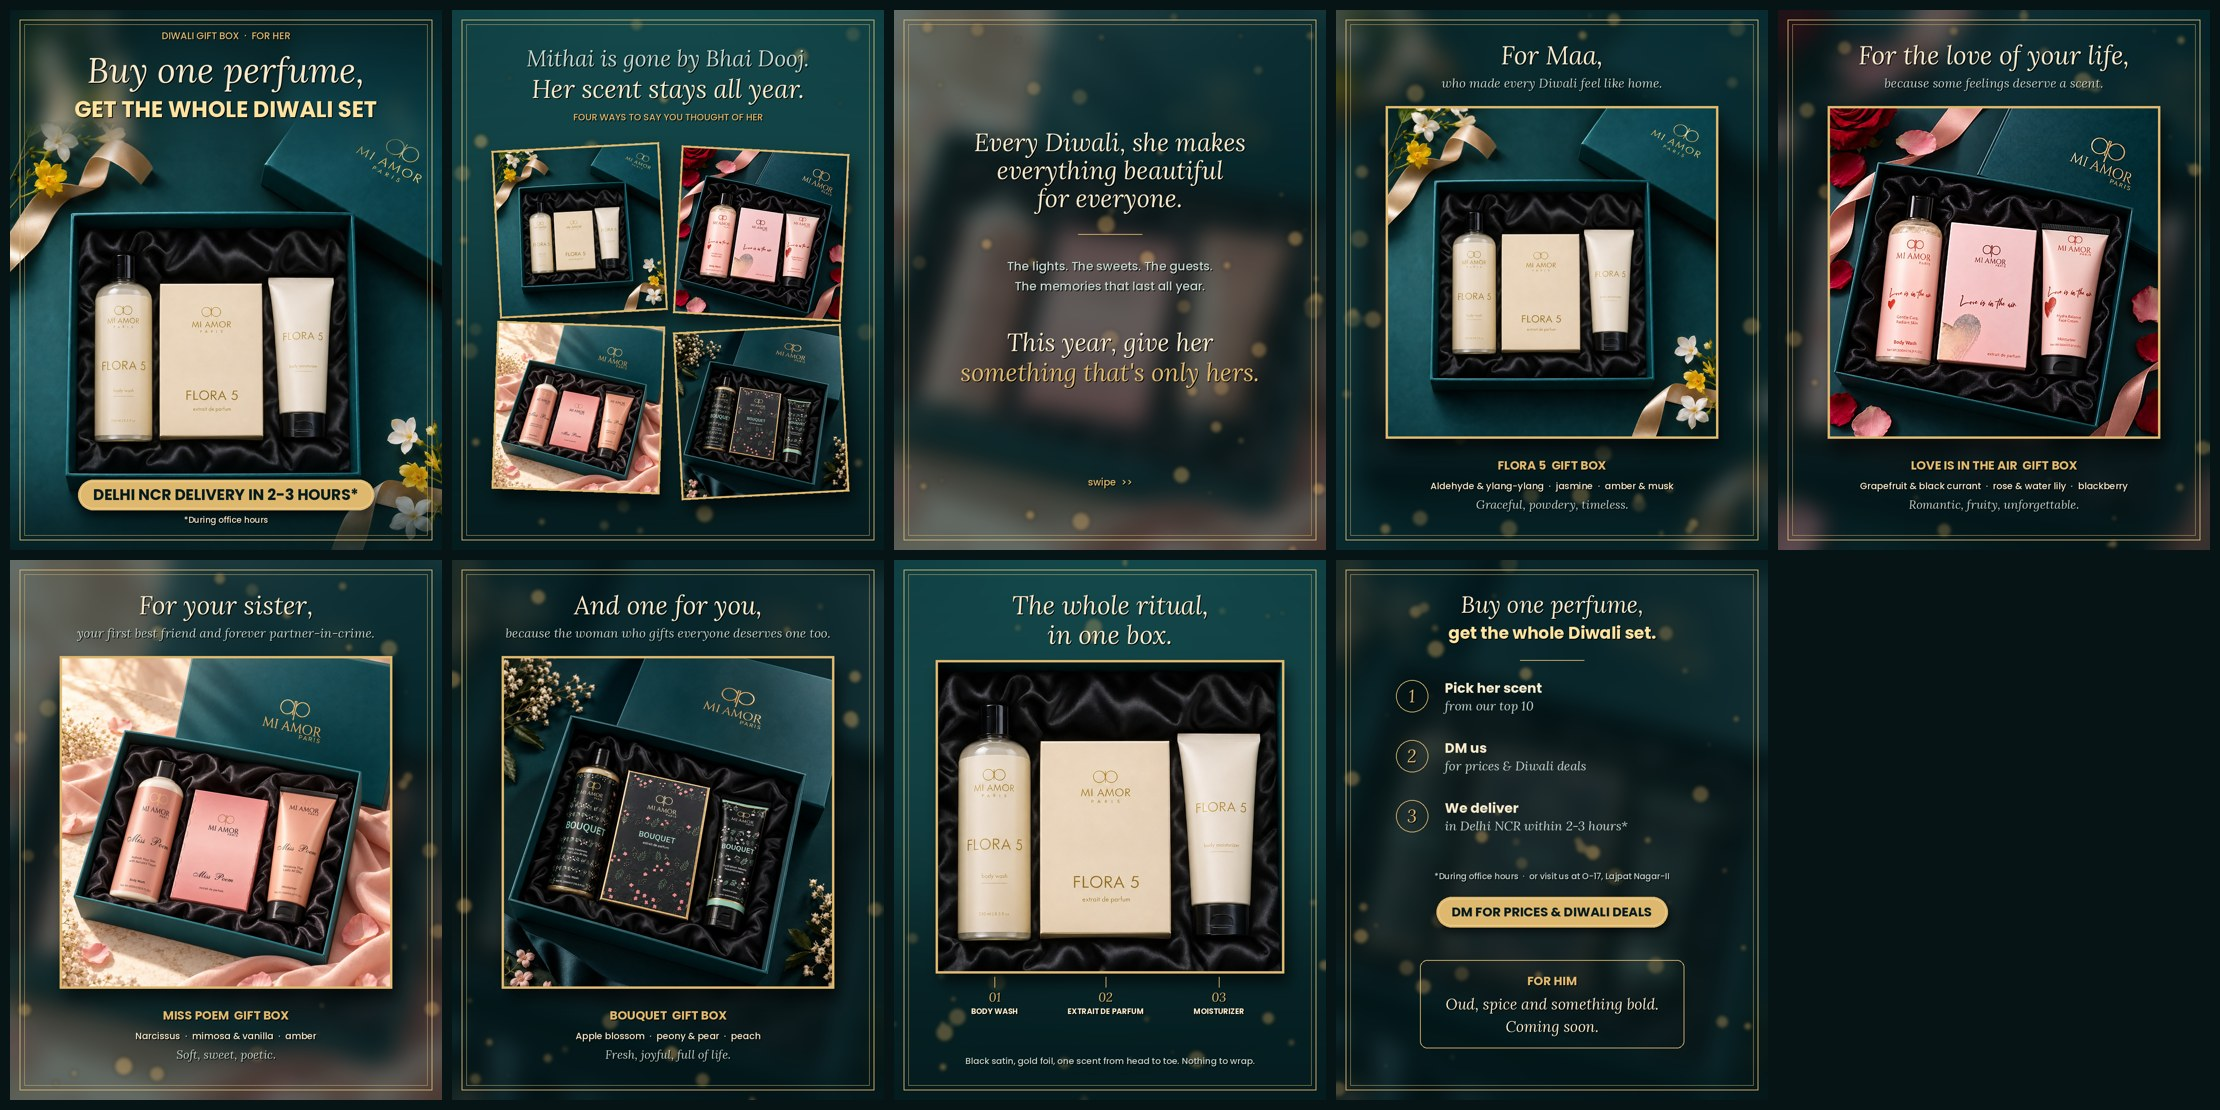
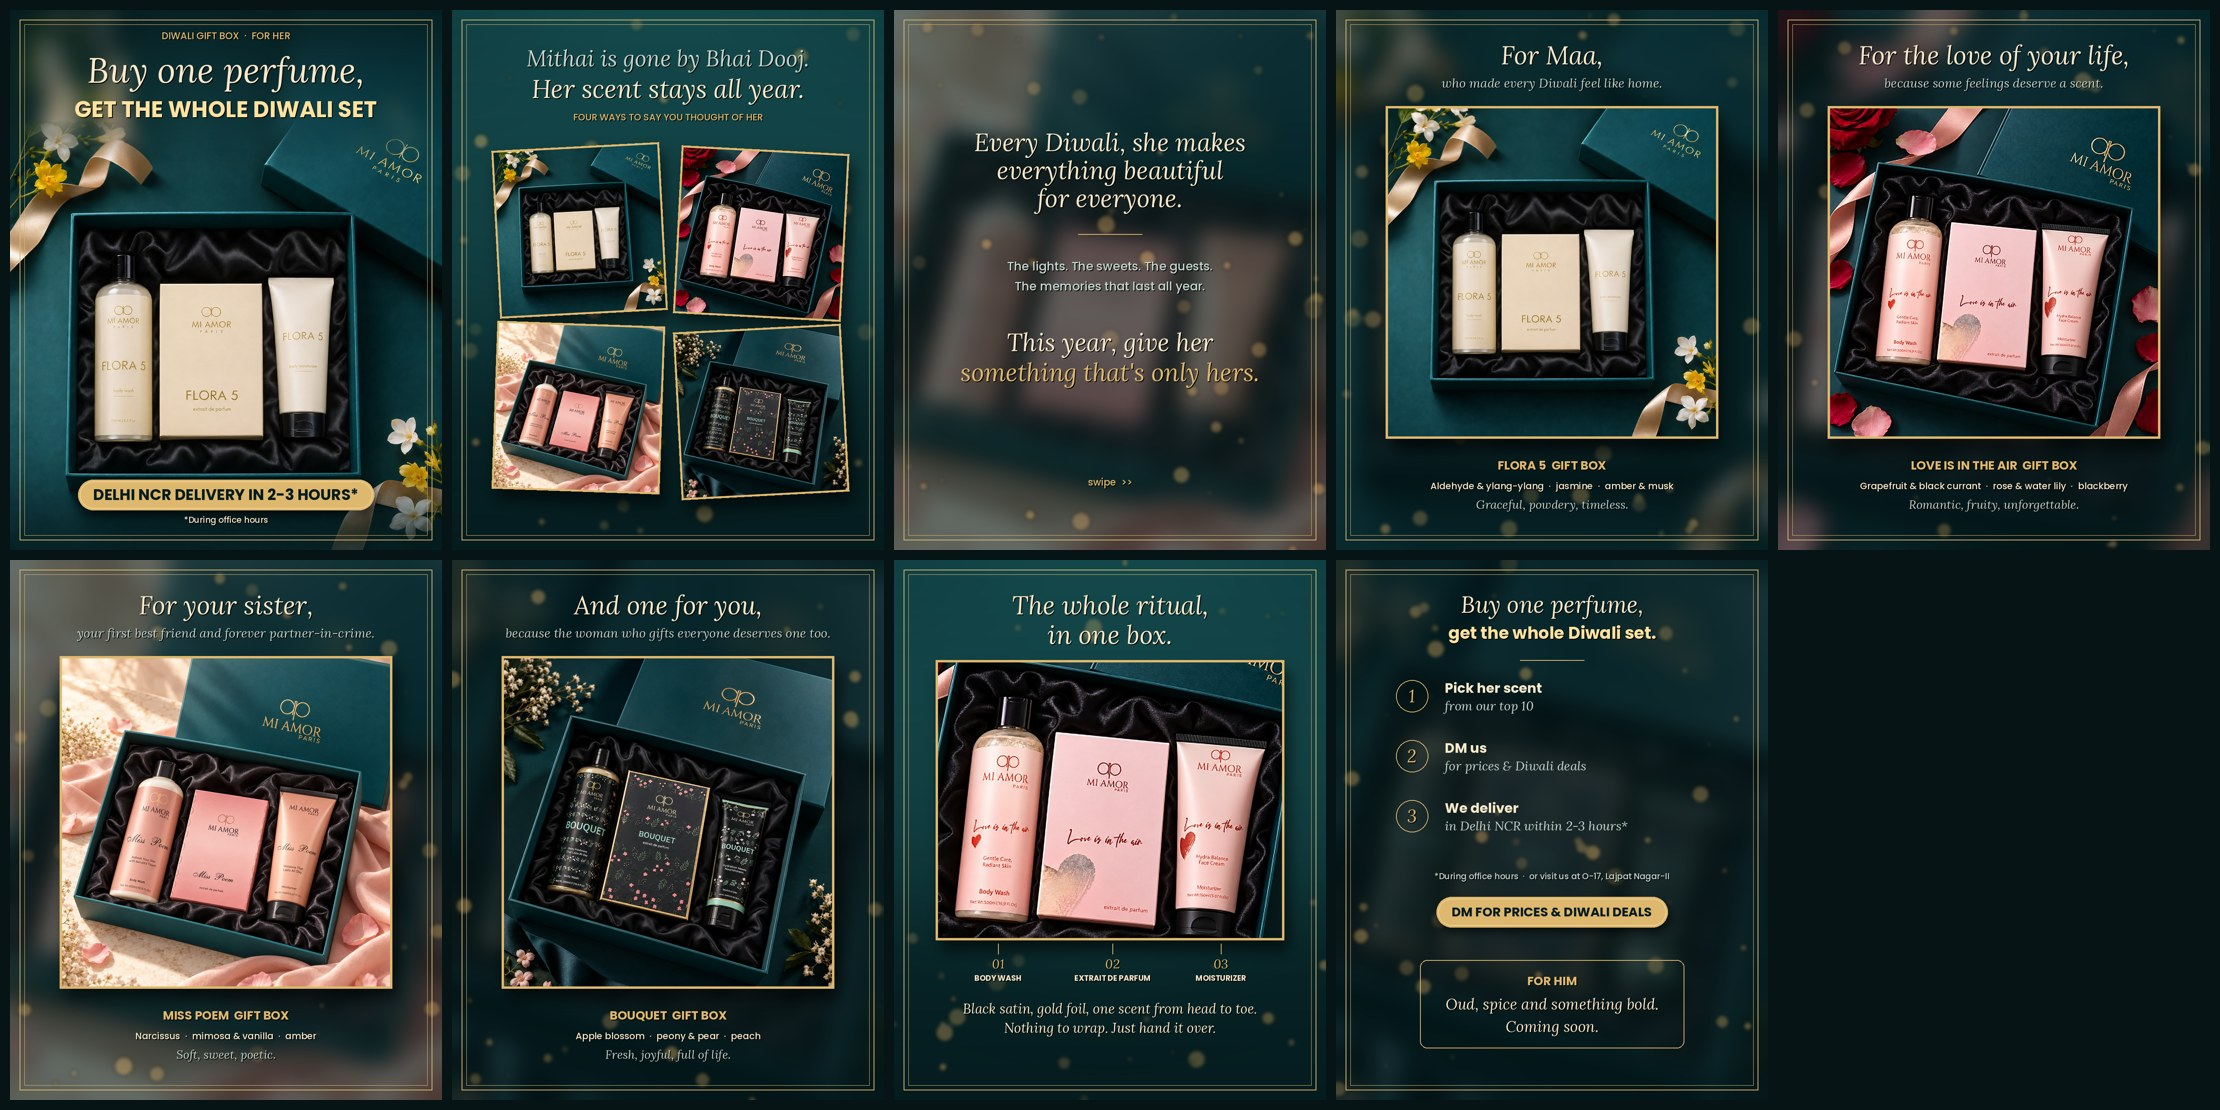
Gift boxes for her: 'whole ritual' slide uses Love Is In The Air box
Claude-Session: https://claude.ai/code/session_01QfcZgk1TCxQfFsu6yjKqLd

Changed region(s): [[0.4041, 0.582, 0.5905, 0.9802]]

diff --git a/posts/2026-11-03-gift-boxes-for-her/build.py b/posts/2026-11-03-gift-boxes-for-her/build.py
@@ -96,18 +96,18 @@ for p, seed, head, sub, name, notes, mood in people:
     card(im, p, 124, 240, 820, 0, 6); d = ImageDraw.Draw(im)
     c(d, 1138, name + "  GIFT BOX", pop(30, "Bold"), GOLD); c(d, 1190, notes, pop(23), CHAMP); c(d, 1236, mood, lora(30, True), SOFT)
     out.append(im)
-# 8 what's inside (new Flora 5 box photo)
+# 8 what's inside (Love Is In The Air box, per Tannay)
 im = bg(7); frame(im); d = ImageDraw.Draw(im)
 c(d, 112, "The whole ritual,", lora(64, True), CHAMP); c(d, 186, "in one box.", lora(64, True), CHAMP)
-cx0, cy0, cx1, cy1 = 200, 300, 990, 1010; crop = FL.crop((cx0, cy0, cx1, cy1)); cw = 860; chh = int(cw * (cy1 - cy0) / (cx1 - cx0))
+f = 1100 / 576; cx0, cy0, cx1, cy1 = int(58 * f), int(108 * f), int(512 * f), int(472 * f); crop = LI.crop((cx0, cy0, cx1, cy1)); cw = 860; chh = int(cw * (cy1 - cy0) / (cx1 - cx0))
 q = crop.resize((cw, chh), Image.LANCZOS).convert("RGBA"); bx = Image.new("RGBA", (cw + 12, chh + 12), GOLD + (255,)); bx.alpha_composite(q, (6, 6))
 X, Y = (W - cw - 12) // 2, 250
 sh = Image.new("RGBA", (W, H)); sa = Image.new("RGBA", bx.size, (0, 0, 0, 150)); sh.alpha_composite(sa, (X + 12, Y + 26)); im.alpha_composite(sh.filter(ImageFilter.GaussianBlur(18))); im.alpha_composite(bx, (X, Y))
 d = ImageDraw.Draw(im); k = cw / (cx1 - cx0); yb = Y + chh + 12
-for i, (sx, lab) in enumerate([(330, "BODY WASH"), (585, "EXTRAIT DE PARFUM"), (845, "MOISTURIZER")]):
+for i, (sx, lab) in enumerate([(137 * f, "BODY WASH"), (288 * f, "EXTRAIT DE PARFUM"), (431 * f, "MOISTURIZER")]):
     x = X + 6 + (sx - cx0) * k; d.line((x, yb + 8, x, yb + 34), fill=GOLD, width=2)
     c(d, yb + 58, f"0{i + 1}", lora(32, True), GOLD, x); c(d, yb + 94, lab, pop(19, "Bold"), CHAMP, x)
-c(d, 1252, "Black satin, gold foil, one scent from head to toe. Nothing to wrap.", pop(22), SOFT); out.append(im)
+c(d, yb + 170, "Black satin, gold foil, one scent from head to toe.", lora(34, True), CHAMP); c(d, yb + 218, "Nothing to wrap. Just hand it over.", lora(34, True), CHAMP); out.append(im)
 # 9 how to gift + CTA + for him teaser
 im = bg(8, BQ); frame(im); d = ImageDraw.Draw(im)
 c(d, 110, "Buy one perfume,", lora(58, True), CHAMP); c(d, 182, "get the whole Diwali set.", pop(42, "Bold"), (255, 226, 160))
